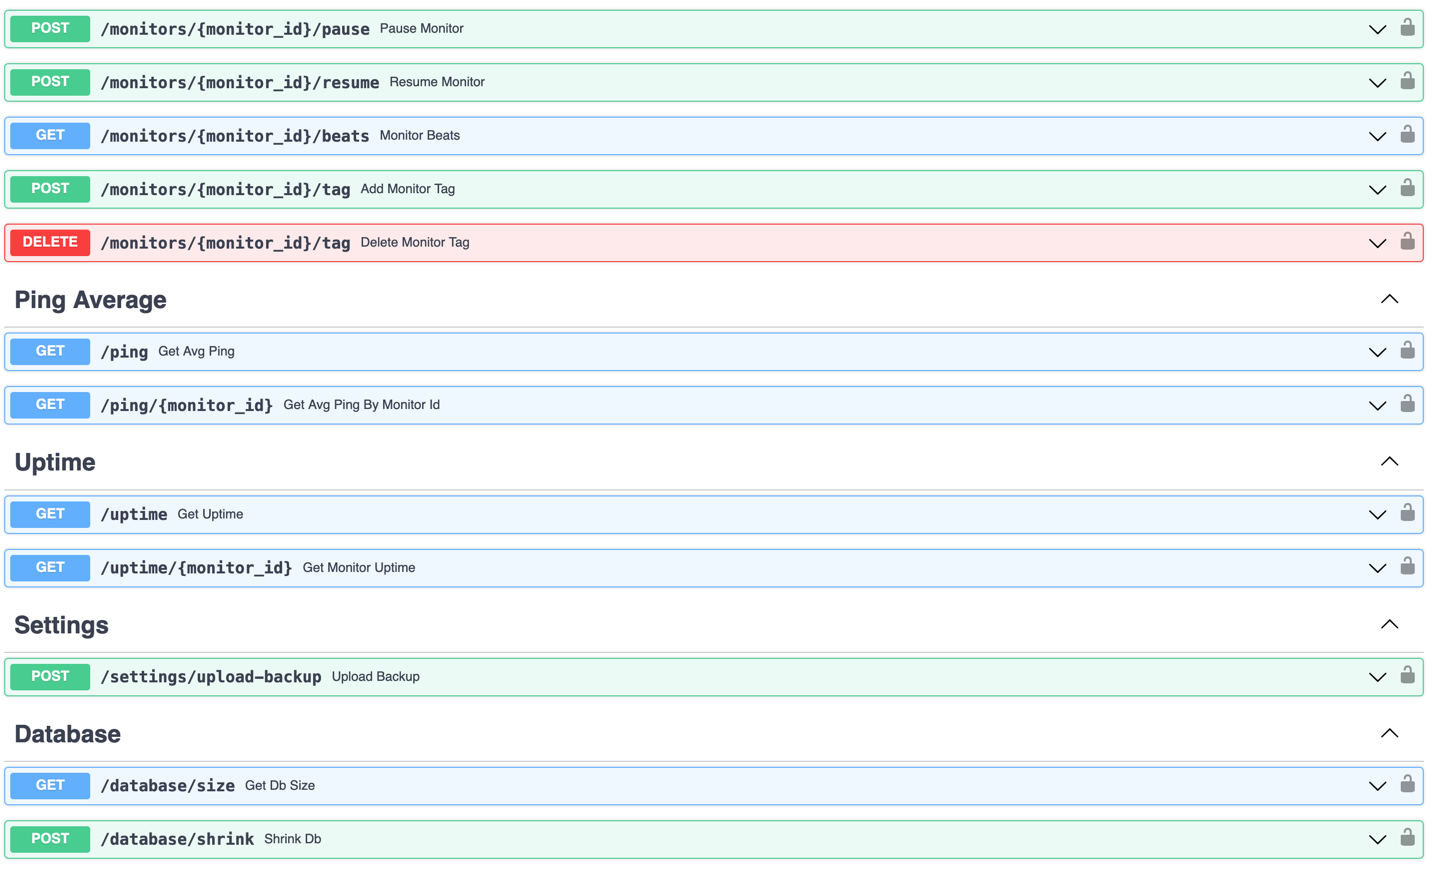
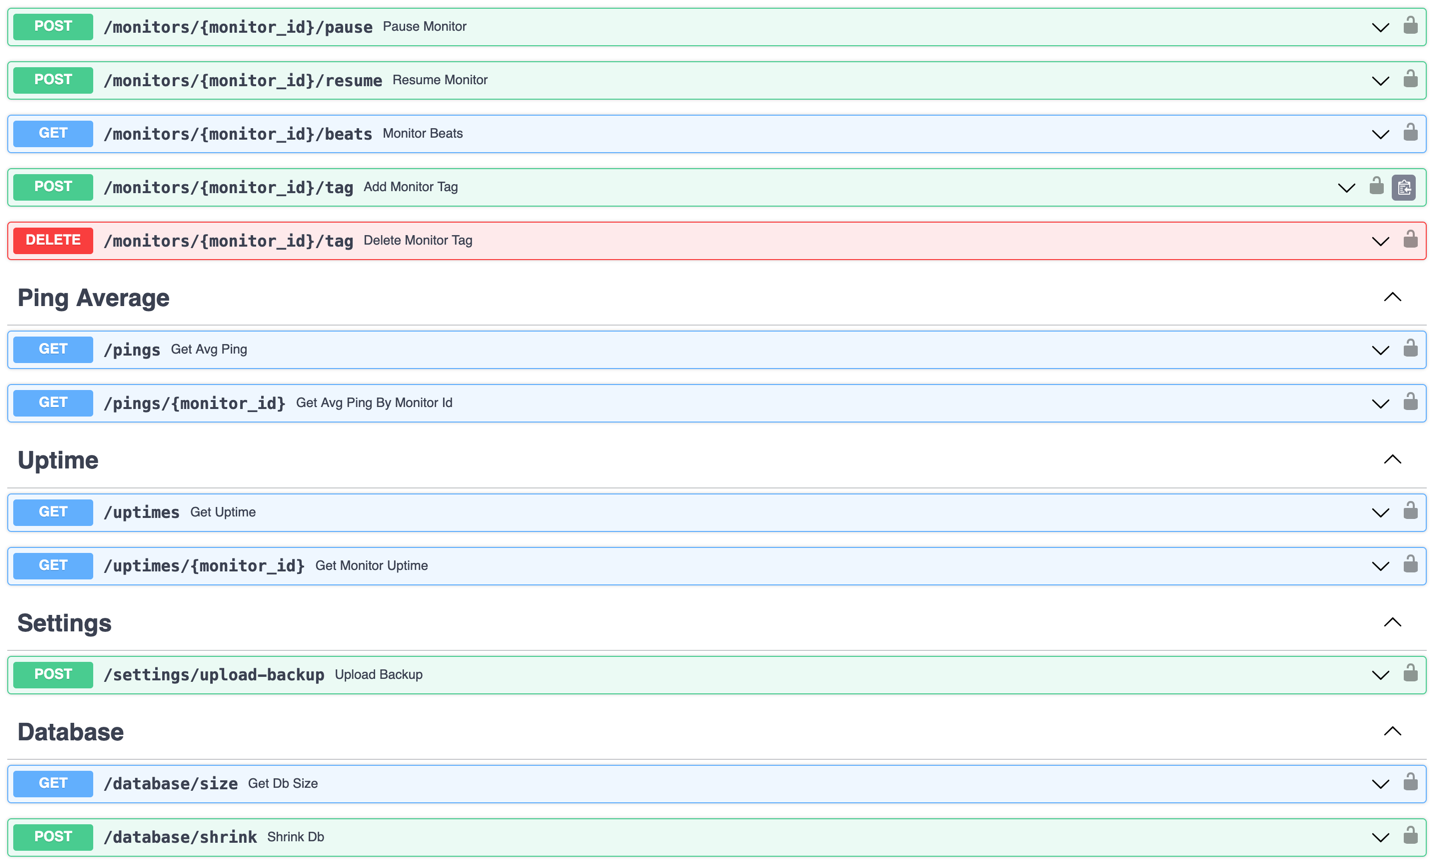
refactor: update endpoints

Changed region(s): [[0.0, 0.0, 1.0, 1.0], [0.9525, 0.375, 1.0, 0.5]]

diff --git a/app/maintenances/router.py b/app/maintenances/router.py
@@ -20,7 +20,7 @@ async def get_maintenances(s: JWTSession = Depends(get_jwt_session)):
         raise HTTPException(500, str(e))
 
 
-@router.get("/{maintenance_id}", description="Get maintenance by ID")
+@router.get("/{maintenance_id}", description="Get maintenances by ID")
 async def get_maintenance(maintenance_id: int = Path(...), s: JWTSession = Depends(get_jwt_session)):
     try:
         return s.api.get_maintenance(maintenance_id)
@@ -32,7 +32,7 @@ async def get_maintenance(maintenance_id: int = Path(...), s: JWTSession = Depen
         raise HTTPException(500, str(e))
 
 
-@router.post("", description="Create a maintenance")
+@router.post("", description="Create a maintenances")
 async def create_maintenance(maintenance: Maintenance, s: JWTSession = Depends(get_jwt_session)):
     try:
         return s.api.add_maintenance(**maintenance.dict())
@@ -44,7 +44,7 @@ async def create_maintenance(maintenance: Maintenance, s: JWTSession = Depends(g
         raise HTTPException(500, str(e))
 
 
-@router.patch("/{maintenance_id}", description="Update a specific maintenance")
+@router.patch("/{maintenance_id}", description="Update a specific maintenances")
 async def update_maintenance(
         maintenance: MaintenanceUpdate,
         maintenance_id: int = Path(...),
@@ -53,7 +53,7 @@ async def update_maintenance(
     try:
         return {
             **s.api.edit_maintenance(id_=maintenance_id, **maintenance.dict(exclude_unset=True)),
-            "maintenance": maintenance.dict(exclude_unset=True)
+            "maintenances": maintenance.dict(exclude_unset=True)
         }
     except UptimeKumaException as e:
         logging.info(e)
@@ -79,7 +79,7 @@ async def delete_maintenance(maintenance_id: int = Path(...), s: JWTSession = De
         raise HTTPException(500, str(e))
 
 
-@router.post("/{maintenance_id}/pause", description="Pause a specific maintenance")
+@router.post("/{maintenance_id}/pause", description="Pause a specific maintenances")
 async def pause_maintenance(maintenance_id: int = Path(...), s: JWTSession = Depends(get_jwt_session)):
     try:
         return s.api.pause_maintenance(maintenance_id)
@@ -91,7 +91,7 @@ async def pause_maintenance(maintenance_id: int = Path(...), s: JWTSession = Dep
         raise HTTPException(500, str(e))
 
 
-@router.post("/{maintenance_id}/resume", description="Resume a specific maintenance")
+@router.post("/{maintenance_id}/resume", description="Resume a specific maintenances")
 async def resume_maintenance(maintenance_id: int = Path(...), s: JWTSession = Depends(get_jwt_session)):
     try:
         return s.api.resume_maintenance(maintenance_id)
@@ -103,7 +103,7 @@ async def resume_maintenance(maintenance_id: int = Path(...), s: JWTSession = De
         raise HTTPException(500, str(e))
 
 
-@router.get("/{maintenance_id}/monitors", description="Get monitors to a maintenance")
+@router.get("/{maintenance_id}/monitors", description="Get monitors to a maintenances")
 async def add_monitor_maintenance(
         maintenance_id: int = Path(...),
         s: JWTSession = Depends(get_jwt_session)
@@ -118,7 +118,7 @@ async def add_monitor_maintenance(
         raise HTTPException(500, str(e))
 
 
-@router.post("/{maintenance_id}/monitors", description="Adds monitors to a maintenance")
+@router.post("/{maintenance_id}/monitors", description="Adds monitors to a maintenances")
 async def add_monitor_maintenance(
         monitors: List[MonitorMaintenance],
         maintenance_id: int = Path(...),
@@ -129,7 +129,7 @@ async def add_monitor_maintenance(
         return s.api.add_monitor_maintenance(maintenance_id, mns)
     except UptimeKumaException as e:
         logging.info(e)
-        raise HTTPException(404, {"message": "Maintenance or monitor not found!"})
+        raise HTTPException(404, {"message": "Maintenance or monitors not found!"})
     except Exception as e:
         logging.fatal(e)
         raise HTTPException(500, str(e))

diff --git a/app/monitors/router.py b/app/monitors/router.py
@@ -6,8 +6,8 @@ from auth.schemas import JWTSession
 from auth.dependencies import get_jwt_session
 from config import logger as logging
 from .raises import raise_monitor_not_found
-from ping.utils import get_avg_pings
-from uptime.utils import get_uptimes
+from pings.utils import get_avg_pings
+from uptimes.utils import get_uptimes
 
 router = APIRouter(redirect_slashes=True)
 
@@ -32,10 +32,10 @@ async def get_monitor(monitor_id: int = Path(...), s: JWTSession = Depends(get_j
         logging.fatal(e)
         raise HTTPException(500, str(e))
 
-    return {"monitor": monitor}
+    return {"monitors": monitor}
 
 
-@router.get("/{monitor_id}/dashboard", description="Get monitor dashboard data")
+@router.get("/{monitor_id}/dashboard", description="Get monitors dashboard data")
 async def get_monitor_dashboard(
         monitor_id: int = Path(...),
         heartbeat_hours: int = 1,
@@ -51,9 +51,9 @@ async def get_monitor_dashboard(
         raise HTTPException(500, str(e))
 
     response = {
-        "monitor": monitor,
+        "monitors": monitor,
         "avgResponseTime": None,
-        "uptime": {
+        "uptimes": {
             "24": None,
             "720": None,
         }
@@ -70,7 +70,7 @@ async def get_monitor_dashboard(
     try:
         uptimes = await get_uptimes(s.api)
         if monitor_id in uptimes:
-            response["uptime"] = uptimes[monitor_id]
+            response["uptimes"] = uptimes[monitor_id]
     except Exception as e:
         logging.fatal(e)
         raise HTTPException(500, str(e))
@@ -85,7 +85,7 @@ async def get_monitor_dashboard(
     return response
 
 
-@router.get("/{monitor_id}/cert", description="Get monitor certificate info")
+@router.get("/{monitor_id}/cert", description="Get monitors certificate info")
 async def get_monitor_cert_info(monitor_id: int = Path(...), s: JWTSession = Depends(get_jwt_session)):
     try:
         info = s.api.cert_info()
@@ -130,7 +130,7 @@ async def update_monitor(
         logging.fatal(e)
         raise HTTPException(500, str(e))
 
-    return {**resp, "monitor": monitor.dict(exclude_unset=True)}
+    return {**resp, "monitors": monitor.dict(exclude_unset=True)}
 
 
 @router.delete("/{monitor_id}", description="Delete a specific Monitor")
@@ -186,7 +186,7 @@ async def monitor_beats(
         raise HTTPException(500, str(e))
 
 
-@router.post("/{monitor_id}/tag", description="Add an already created tag to a specific monitor")
+@router.post("/{monitor_id}/tag", description="Add an already created tag to a specific monitors")
 async def add_monitor_tag(
         tag: MonitorTag,
         monitor_id: int = Path(...),
@@ -202,7 +202,7 @@ async def add_monitor_tag(
         raise HTTPException(500, str(e))
 
 
-@router.delete("/{monitor_id}/tag", description="Delete a tag from a specific monitor")
+@router.delete("/{monitor_id}/tag", description="Delete a tag from a specific monitors")
 async def delete_monitor_tag(
         tag: MonitorTag,
         monitor_id: int = Path(...),

diff --git a/app/main.py b/app/main.py
@@ -6,15 +6,15 @@ from config import settings as app_settings, logger
 
 import auth
 import user
-import monitor
-import ping
-import uptime
+import monitors
+import pings
+import uptimes
 import tags
 import cert
 import database
 import info
 import settings
-import maintenance
+import maintenances
 import statuspages
 
 app = FastAPI(title=app_settings.PROJECT_NAME)
@@ -22,16 +22,16 @@ app.router.redirect_slashes = True
 
 app.include_router(auth.router, prefix="/login", tags=["Authentication"])
 app.include_router(user.router, prefix="/users", tags=["Users"])
-app.include_router(monitor.router, prefix="/monitors", tags=["Monitor"])
-app.include_router(ping.router, prefix="/ping", tags=["Ping Average"])
-app.include_router(uptime.router, prefix="/uptime", tags=["Uptime"])
+app.include_router(monitors.router, prefix="/monitors", tags=["Monitor"])
+app.include_router(pings.router, prefix="/pings", tags=["Ping Average"])
+app.include_router(uptimes.router, prefix="/uptimes", tags=["Uptime"])
 app.include_router(settings.router, prefix="/settings", tags=["Settings"])
 app.include_router(database.router, prefix="/database", tags=["Database"])
 app.include_router(statuspages.router, prefix="/status-pages", tags=["Status Pages"])
-app.include_router(maintenance.router, prefix="/maintenance", tags=["Maintenance"])
+app.include_router(maintenances.router, prefix="/maintenances", tags=["Maintenances"])
 app.include_router(tags.router, prefix="/tags", tags=["Tags"])
-app.include_router(cert.router, prefix="/cert_info", tags=["Certification Info"])
-app.include_router(info.router, prefix="/info", tags=["Information's"])
+app.include_router(cert.router, prefix="/cert-info", tags=["Certificates Info"])
+app.include_router(info.router, prefix="/info", tags=["Server Information"])
 
 
 @app.on_event("startup")

diff --git a/app/maintenances/schemas.py b/app/maintenances/schemas.py
@@ -10,7 +10,7 @@ class Maintenance(BaseModel):
 
     strategy (MaintenanceStrategy) – Strategy
 
-    active (bool, optional) – True if maintenance is active, defaults to True
+    active (bool, optional) – True if maintenances is active, defaults to True
 
     description (str, optional) – Description, defaults to ""
 
@@ -18,9 +18,9 @@ class Maintenance(BaseModel):
 
     intervalDay (int, optional) – Interval (Run once every day), defaults to 1
 
-    weekdays (list, optional) – List that contains the days of the week on which the maintenance is enabled (Sun = 0, Mon = 1, …, Sat = 6). Required for strategy RECURRING_WEEKDAY., defaults to [].
+    weekdays (list, optional) – List that contains the days of the week on which the maintenances is enabled (Sun = 0, Mon = 1, …, Sat = 6). Required for strategy RECURRING_WEEKDAY., defaults to [].
 
-    daysOfMonth (list, optional) – List that contains the days of the month on which the maintenance is enabled (Day 1 = 1, Day 2 = 2, …, Day 31 = 31) and the last day of the month (Last Day of Month = "lastDay1", 2nd Last Day of Month = "lastDay2", 3rd Last Day of Month = "lastDay3", 4th Last Day of Month = "lastDay4"). Required for strategy RECURRING_DAY_OF_MONTH., defaults to [].
+    daysOfMonth (list, optional) – List that contains the days of the month on which the maintenances is enabled (Day 1 = 1, Day 2 = 2, …, Day 31 = 31) and the last day of the month (Last Day of Month = "lastDay1", 2nd Last Day of Month = "lastDay2", 3rd Last Day of Month = "lastDay3", 4th Last Day of Month = "lastDay4"). Required for strategy RECURRING_DAY_OF_MONTH., defaults to [].
 
     timeRange (list, optional) – Maintenance Time Window of a Day, defaults to [{"hours": 2, "minutes": 0}, {"hours": 3, "minutes": 0}].
     """

diff --git a/app/pings/router.py b/app/pings/router.py
@@ -4,12 +4,12 @@ from config import logger as logging
 from auth.schemas import JWTSession
 from auth.dependencies import get_jwt_session
 from .utils import get_avg_pings
-from monitor.raises import raise_monitor_not_found
+from monitors.raises import raise_monitor_not_found
 
 router = APIRouter(redirect_slashes=True)
 
 
-@router.get("", description="Get average ping")
+@router.get("", description="Get average pings")
 async def get_avg_ping(s: JWTSession = Depends(get_jwt_session)):
     try:
         return await get_avg_pings(s.api)
@@ -18,7 +18,7 @@ async def get_avg_ping(s: JWTSession = Depends(get_jwt_session)):
         raise HTTPException(500, str(e))
 
 
-@router.get("/{monitor_id}", description="Get average ping by monitor ID")
+@router.get("/{monitor_id}", description="Get average pings by monitors ID")
 async def get_avg_ping_by_monitor_id(monitor_id: int, s: JWTSession = Depends(get_jwt_session)):
     try:
         pings = await get_avg_pings(s.api)

diff --git a/app/statuspages/schemas.py b/app/statuspages/schemas.py
@@ -85,9 +85,9 @@ class DeleteStatusPageResponse(BaseModel):
 
 
 # Error
-# uptime-kuma-web-api-api-1  | pydantic.error_wrappers.ValidationError: 1 validation error for DeleteStatusPageResponse
-# uptime-kuma-web-api-api-1  | response
-# uptime-kuma-web-api-api-1  |   none is not an allowed value (type=type_error.none.not_allowed)
+# uptimes-kuma-web-api-api-1  | pydantic.error_wrappers.ValidationError: 1 validation error for DeleteStatusPageResponse
+# uptimes-kuma-web-api-api-1  | response
+# uptimes-kuma-web-api-api-1  |   none is not an allowed value (type=type_error.none.not_allowed)
 
 
 class PostIncidentRequest(BaseModel):

diff --git a/app/uptimes/router.py b/app/uptimes/router.py
@@ -17,7 +17,7 @@ async def get_uptime(s: JWTSession = Depends(get_jwt_session)):
         raise HTTPException(500, str(e))
 
 
-@router.get("/{monitor_id}", description="Uptime for a specific monitor")
+@router.get("/{monitor_id}", description="Uptime for a specific monitors")
 async def get_monitor_uptime(monitor_id: int, s: JWTSession = Depends(get_jwt_session)):
     try:
         uptimes = await get_uptimes(s.api)
